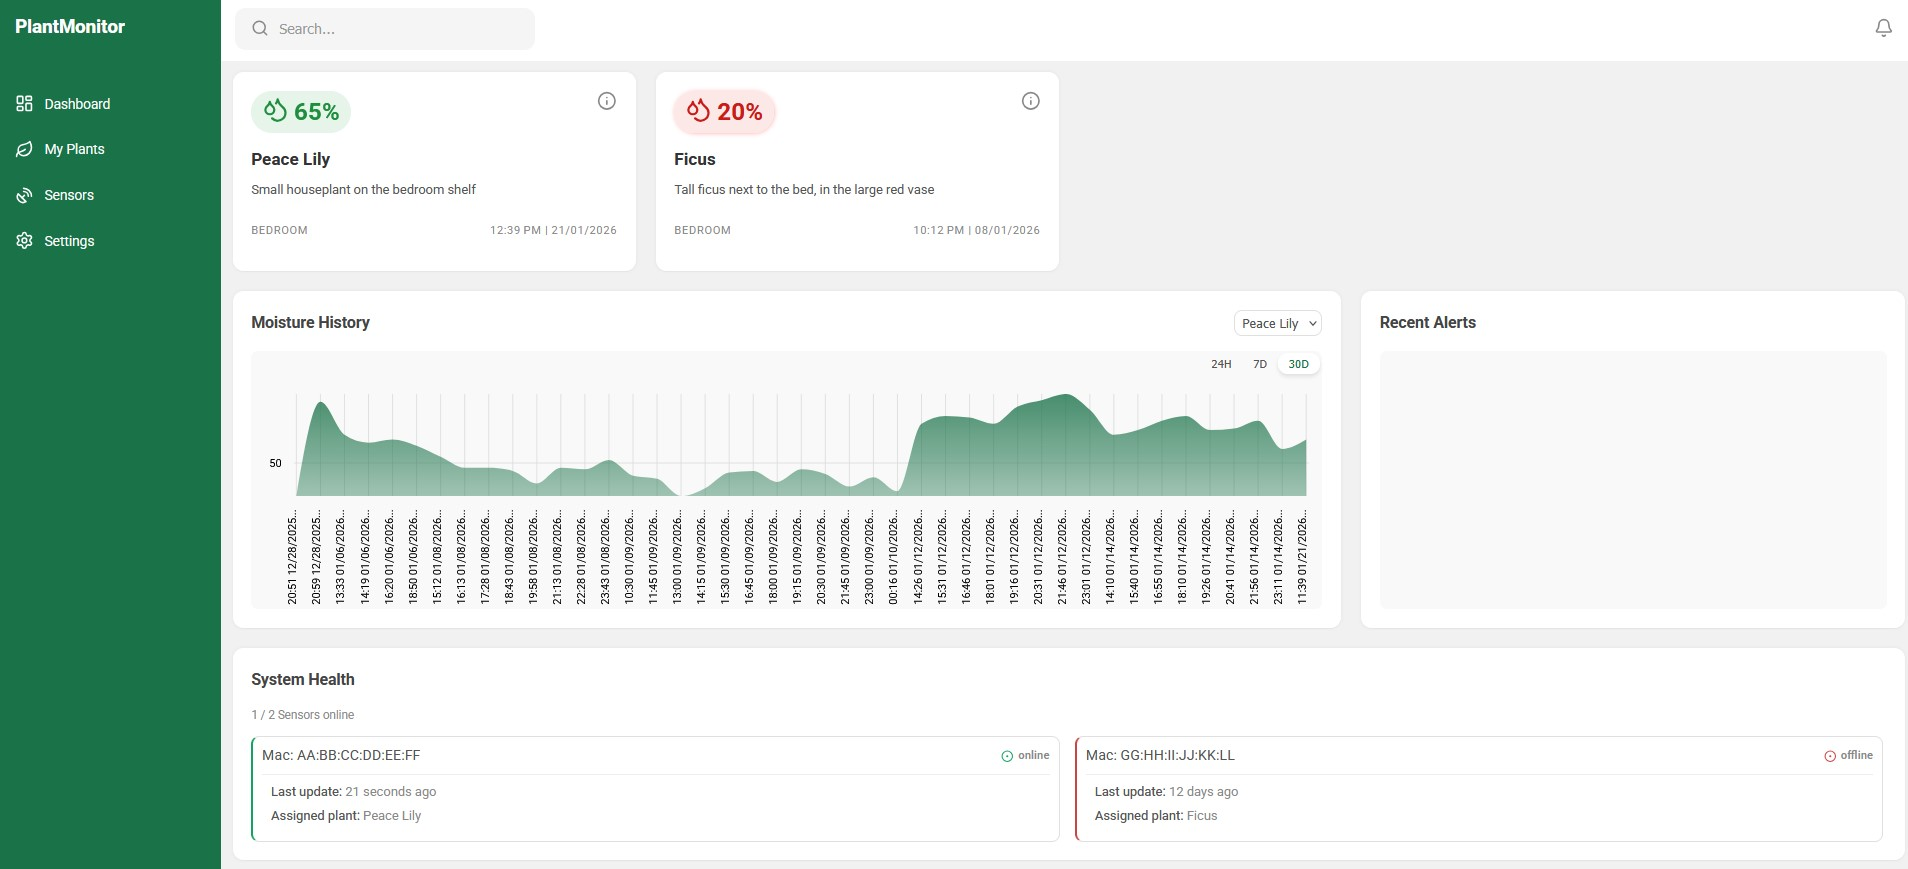
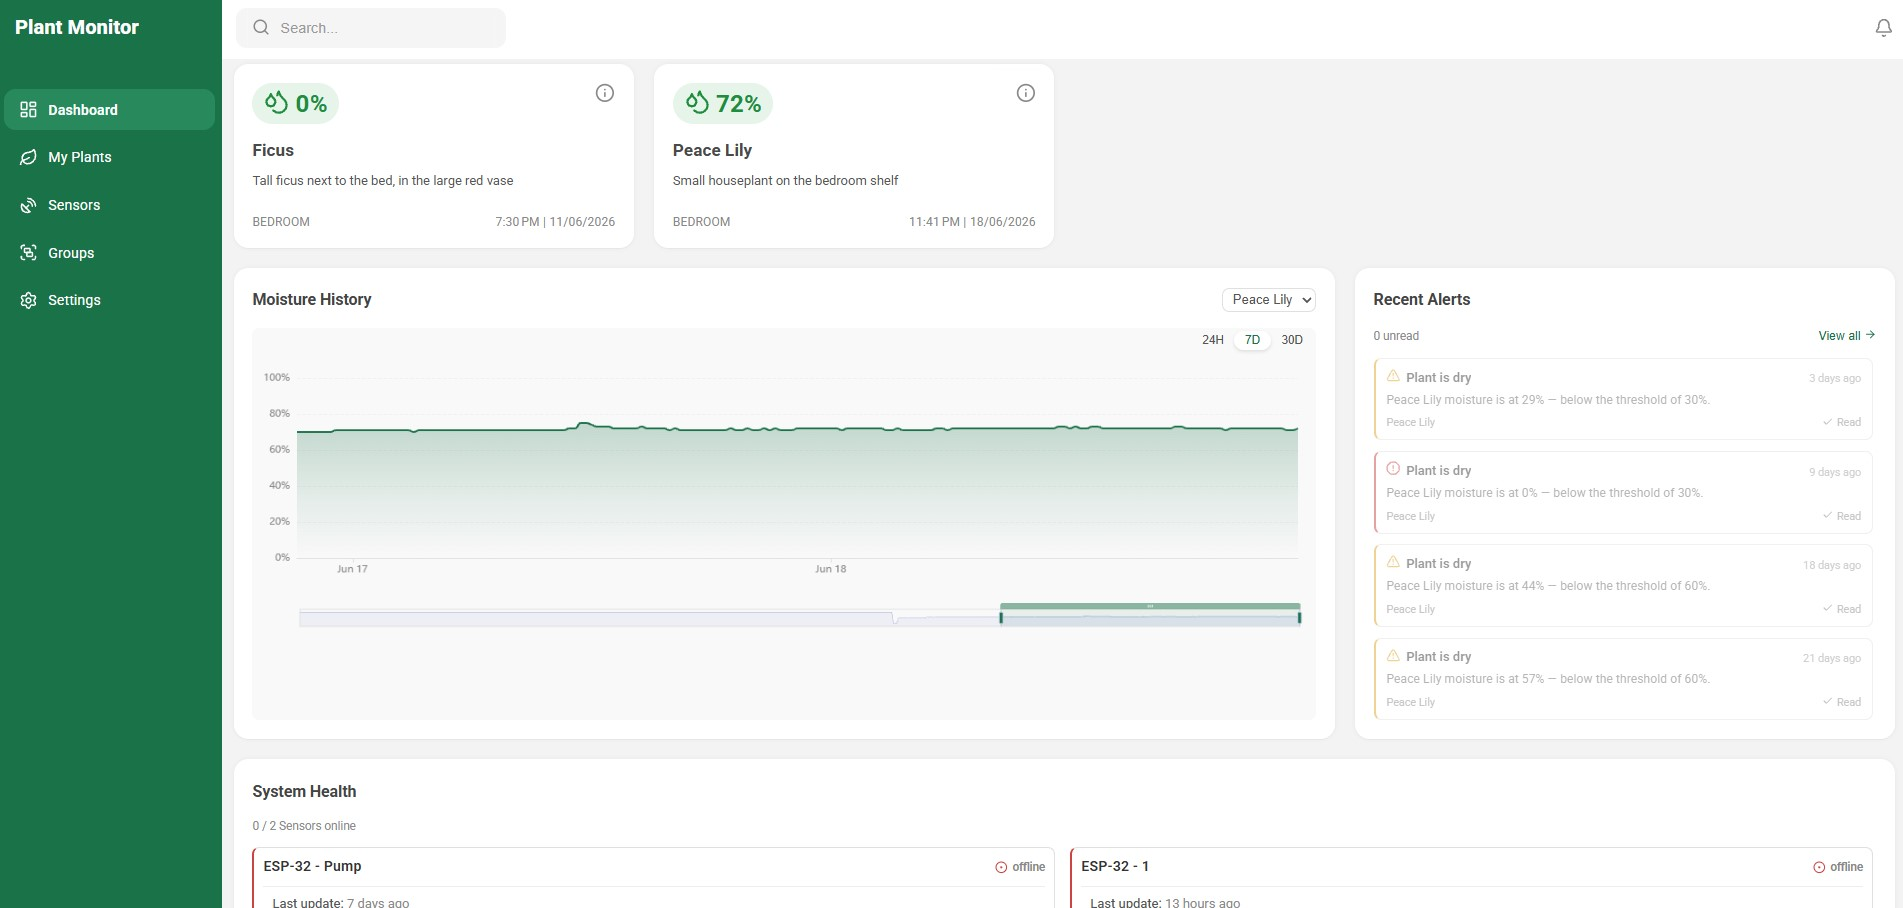
Updated readme,  CI/CD badge, deployment section, CAD images and corrected project structure

diff --git a/README.md b/README.md
@@ -1,102 +1,139 @@
 # Plant Monitor IoT - Soil Moisture Tracking System
 
-![REST API](https://img.shields.io/badge/REST_API-FF6C37?style=flat&logo=json&logoColor=white)  [![.NET](https://img.shields.io/badge/.NET-512BD4?logo=dotnet&logoColor=fff)](#) [![Angular](https://img.shields.io/badge/Angular-%23DD0031.svg?logo=angular&logoColor=white)](#) [![Postgres](https://img.shields.io/badge/Postgres-%23316192.svg?logo=postgresql&logoColor=white)](#)
+[![CI/CD](https://github.com/BerinS/plant-monitor-iot/actions/workflows/ci-cd.yml/badge.svg)](https://github.com/BerinS/plant-monitor-iot/actions/workflows/ci-cd.yml)
 
-A full-stack IoT solution designed to monitor the soil moisture levels of household plants. The system collects real-time data from sensors, processes it through a ASP .NET Core backend, and shows it on an Angular frontend, ensuring no plant is ever over-watered or neglected.
+![REST API](https://img.shields.io/badge/REST_API-FF6C37?style=flat&logo=json&logoColor=white)  [![.NET](https://img.shields.io/badge/.NET-512BD4?logo=dotnet&logoColor=fff)](#) [![Angular](https://img.shields.io/badge/Angular-%23DD0031.svg?logo=angular&logoColor=white)](#) [![Postgres](https://img.shields.io/badge/Postgres-%23316192.svg?logo=postgresql&logoColor=white)](#) [![MQTT](https://img.shields.io/badge/MQTT-660066?logo=mqtt&logoColor=fff)](#)
 
-![Plant Monitoring System](./Images/Header%20image.jpg)
+A full-stack IoT solution designed to monitor the soil moisture levels of household plants and water them when needed. ESP32 sensor nodes send readings over MQTT, an ASP.NET Core backend processes and stores them, and an Angular dashboard shows everything in one place, ensuring no plant is ever over-watered or neglected.
+
+![Plant Monitoring System - Header](./Images/Header%20image.jpg)
+![Plant Monitoring System - Vase](./Images/Final_assembled_images_watering_vase.jpg)
 
 ## Overview
 
-This application serves as the center for a network of soil moisture sensors. The system is deployed on a local Proxmox home server via Docker, and is designed to handle data streams from multiple ESP32 devices. It features historical data graphing, device management, and a PostgreSQL database.
+This application serves as the center for a network of ESP32 soil moisture sensors. Each node takes a reading every 15 minutes and publishes it to an EMQX MQTT broker, and the backend listens for those messages, saves them to PostgreSQL and checks them against each plant's moisture threshold. The same MQTT connection is used the other way around to send watering commands to a pump on the node.
 
-Architecture: Microservices - Frontend, Backend, Database - orchestrated via Docker Compose.
+The system runs on a local Proxmox home server as four Docker containers (frontend, backend, database, MQTT broker) orchestrated with Docker Compose, and is deployed automatically through a CI/CD pipeline.
 
 ## Features
 
 ### Device & Data Management
-- **Sensor Integration**: Ingests real-time moisture data from IoT devices via API
-- **Device Health Checks**: Monitors sensor connectivity and status
+- **MQTT Sensor Integration**: ESP32 nodes publish moisture readings to `devices/{id}/telemetry`
+- **Device Health Checks**: Monitors sensor connectivity and last-seen status
 - **Historical Logging**: Persists sensor readings in PostgreSQL
+
+### Watering & Alerts
+- **Remote Watering**: Trigger the pump from the dashboard, sent to the node as an MQTT command (with an 8 second hard limit on the device)
+- **Moisture Thresholds**: Each plant has its own threshold, dropping below it creates a notification
+- **Email Notifications**: Optional email alerts via SMTP, configured from the Settings page
+- **Event Log**: Keeps a history of watering events and who triggered them
 
 ### Dashboard & UI
 - **Real-Time Visualization**: Dynamic charts displaying moisture trends over time
-- **Plant Management**: CRUD interface for managing plant profiles (Name, Description, Group)
+- **Plant Management**: CRUD interface for managing plant profiles (Name, Description, Group, Threshold)
+- **Groups**: Organise plants by room or location
 - **Responsive Design**: Optimized for viewing on desktop or mobile
 
 ### Infrastructure
 - **Containerized Deployment**: Isolated services using Docker
 - **Reverse Proxy**: Nginx routing for API and frontend integration
+- **CI/CD**: Every push to `main` is tested, built and deployed automatically (see [Deployment](#deployment))
 
-### Custom 3D printed case
-- ***Custom CAD Design***: specifically made to compactly house the LM393 and ESP-32
-- **Magnetic Mounting** convenient magnetic attachment to the clip for easy mounting on vases
-- **Print-Ready** design requires minimal supports for easy 3D printing
+![Infrastructure diagram](./Images/fig_3_1_architecture_deployment.jpg)
 
-![Plant Monitoring System](./Images/Case/Case%20collage.jpg)
+### Custom 3D printed enclosures
+- ***Custom CAD Design***: specifically made to compactly house the LM393 sensor module, ESP32 and relay
+- **Magnetic Mounting**: convenient magnetic attachment to the clip for easy mounting on vases
+- **Print-Ready**: designs require minimal supports for easy 3D printing
+
+### Base Monitoring Node
+
+![Base Monitoring Node - CAD](./Images/Base_enclosure_with_lid.jpg)
+
+![Base Monitoring Node - Assembly](./Images/Base_monitoring_node_collage.jpg)
+
+### Automatic Watering Vase
+
+![Automatic Watering Vase - CAD Vase Body](./Images/Watering_vase_body.jpg)
+
+![Automatic Watering Vase - CAD Watering Cap](./Images/Watering_vase_reservoir_cap.jpg)
+
+![Automatic Watering Vase - CAD Lid Attachment](./Images/Watering_vase_electronics_lid.jpg)
+
 
 ## Technologies used
 
 **Frontend:** Angular <br>
 [![Angular](https://img.shields.io/badge/Angular-%23DD0031.svg?logo=angular&logoColor=white)](#)
 
-**Backend:** ASP .NET Core, Entity Framework <br>
+**Backend:** ASP .NET Core, Entity Framework, MQTTnet <br>
 [![.NET](https://img.shields.io/badge/.NET-512BD4?logo=dotnet&logoColor=fff)](#)
 
 **Database:** PostgreSQL <br>
 [![Postgres](https://img.shields.io/badge/Postgres-%23316192.svg?logo=postgresql&logoColor=white)](#)
 
+**Messaging:** EMQX (MQTT broker) <br>
+[![MQTT](https://img.shields.io/badge/MQTT-660066?logo=mqtt&logoColor=fff)](#)
 
-**Infrastructure:** Docker, Portainer, ProxMox  <br>
+**Hardware:** ESP32, LM393 soil moisture sensor, relay + water pump <br>
+[![Espressif](https://img.shields.io/badge/ESP32-E7352C?logo=espressif&logoColor=fff)](#)
+
+**Infrastructure:** Docker, GitHub Actions, Cloudflare Tunnel, Proxmox  <br>
 [![Docker](https://img.shields.io/badge/Docker-2496ED?logo=docker&logoColor=fff)](#)
-[![Portainer](https://img.shields.io/badge/Portainer-C080FF?logo=Portainer&logoColor=fff)](#)
+[![GitHub Actions](https://img.shields.io/badge/GitHub_Actions-2088FF?logo=github-actions&logoColor=fff)](#)
+[![Cloudflare](https://img.shields.io/badge/Cloudflare-F38020?logo=Cloudflare&logoColor=white)](#)
 
 
 ## Deployment
-The application is deployed on my local Proxmox Virtual Machine using Docker Compose. Updates are managed via Portainer.
+The application runs on a Proxmox virtual machine using Docker Compose. Deployments are automated with GitHub Actions:
+
+1. **Test**: every pull request and push runs the backend integration tests and a production build of the frontend
+2. **Build**: on `main`, Docker images for the backend and frontend are built and pushed to GitHub Container Registry, tagged with the commit SHA
+3. **Deploy**: the workflow connects to the VM over SSH through a Cloudflare Tunnel (protected by Cloudflare Access), and runs `scripts/deploy.sh`, which pulls the new images, restarts the containers and waits for a health check
+
+No ports are opened on the home network, and the deploy SSH key can only run the deploy script. Older versions can be redeployed from the Actions tab for a quick rollback.
 
 ## Project Structure
 ```
 plant-monitor-iot/
 │
-├── docker-compose.yml # Orchestration config
-├── init.sql # DB creation script
+├── .github/workflows/     # CI/CD pipeline (test, build, deploy)
+├── docker-compose.yml     # Orchestration config
+├── .env.example           # Template for the required environment variables
+├── scripts/deploy.sh      # Runs on the VM, pulls and restarts containers
 │
-├── backend/
-│ ├── Dockerfile
-│ ├── Controllers/ # API endpoints 
-│ ├── Models/ 
-│ ├── DTOs/ # EF Core context
-│ └── Program.cs
-│
-├── frontend/
+├── PlantMonitoringAPI/    # ASP.NET Core backend
 │   ├── Dockerfile
-│   ├── nginx.conf       # Reverse proxy config
-│   ├── angular.json
-│   ├── package.json
-│   ├── public/
-│   └── src/
-│       ├── app/
-│       │   ├── components/  # Reusable UI components
-│       │   ├── models/      # TypeScript interfaces
-│       │   ├── pages/       # Main route views
-│       │   ├── services/    # API logic
-│       │   ├── app.config.ts
-│       │   ├── app.routes.ts
-│       │   └── main-layout.component.ts
-│       ├── environments/
-│       ├── index.html
-│       ├── main.ts
-│       └── styles.scss
+│   ├── Controllers/       # API endpoints
+│   ├── Data/              # EF Core context
+│   ├── DTOs/
+│   ├── Models/
+│   ├── Services/          # MQTT listener, notifications, email, event log
+│   └── Program.cs
 │
-└── postgres-data/ # Persisted DB volume (GitIgnored)
+├── PlantMonitoringAPI.Tests/  # xUnit integration tests
+│
+├── plantmonitoring_frontend/  # Angular frontend
+│   ├── Dockerfile
+│   ├── nginx.conf         # Reverse proxy config
+│   └── src/
+│       ├── environments/  # API URL for dev / production
+│       └── app/
+│           ├── components/  # Reusable UI components
+│           ├── models/      # TypeScript interfaces
+│           ├── pages/       # Main route views
+│           └── services/    # API logic
+│
+├── ESP32 Code/            # Firmware for the sensor nodes + calibration sketch
+├── Images/                # README images, CAD renders and photos
+│
+└── postgres-data/         # Persisted DB volume (only on the server, GitIgnored)
 ```
 
 Structure ensures separation of concerns. The docker-compose.yml links the independent services. Postgres-data folder mounted to ensure data survives container restarts.
 
 ## Notes
-Status: The project is live on the local server. Setup requires Docker and Docker Compose installed on the host machine. init.sql automatically populates the database on the first run.
+Status: The project is live on the local server. Setup requires Docker and Docker Compose on the host machine. Copy `.env.example` to `.env` and fill in the credentials. The database schema (`init.sql`) is kept on the server and not in the repository, it populates the database on the first run.
 
 ## Dashboard UI
 ![Dashboard UI](./Images/Dashboard1.jpg)
-
